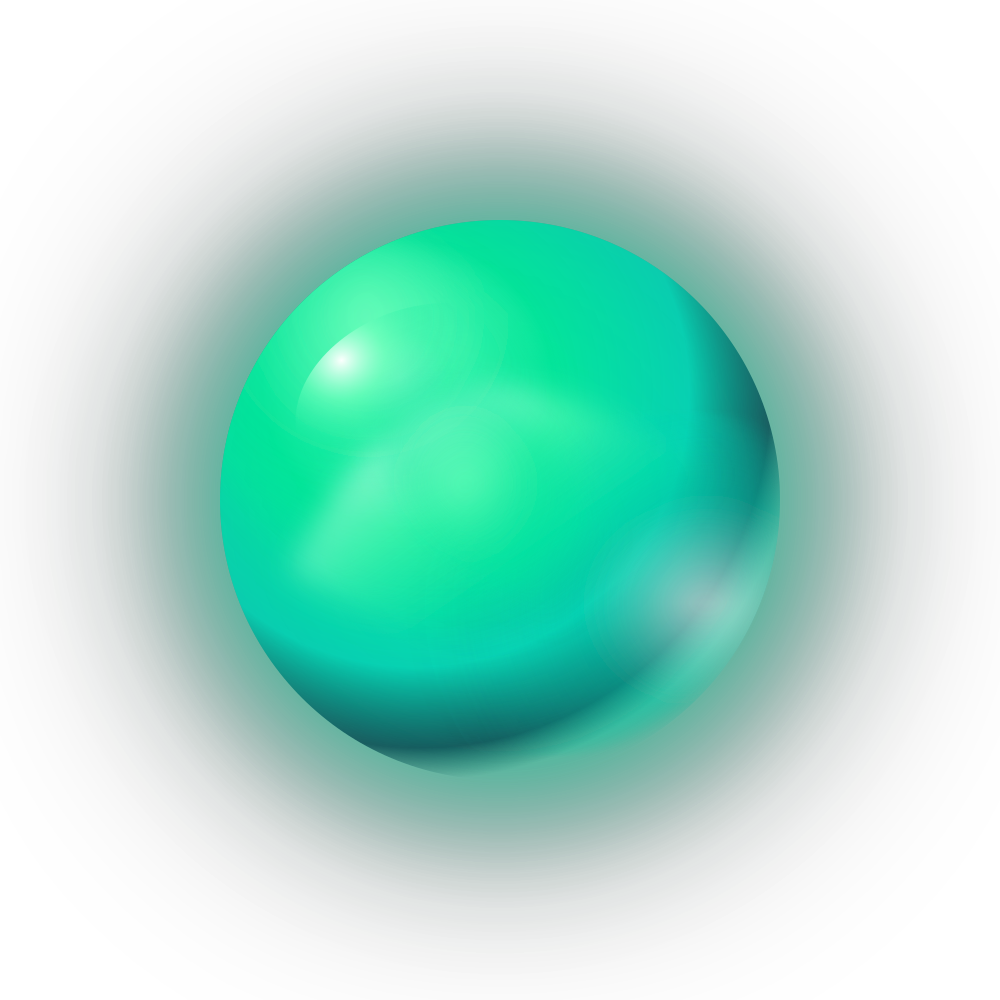
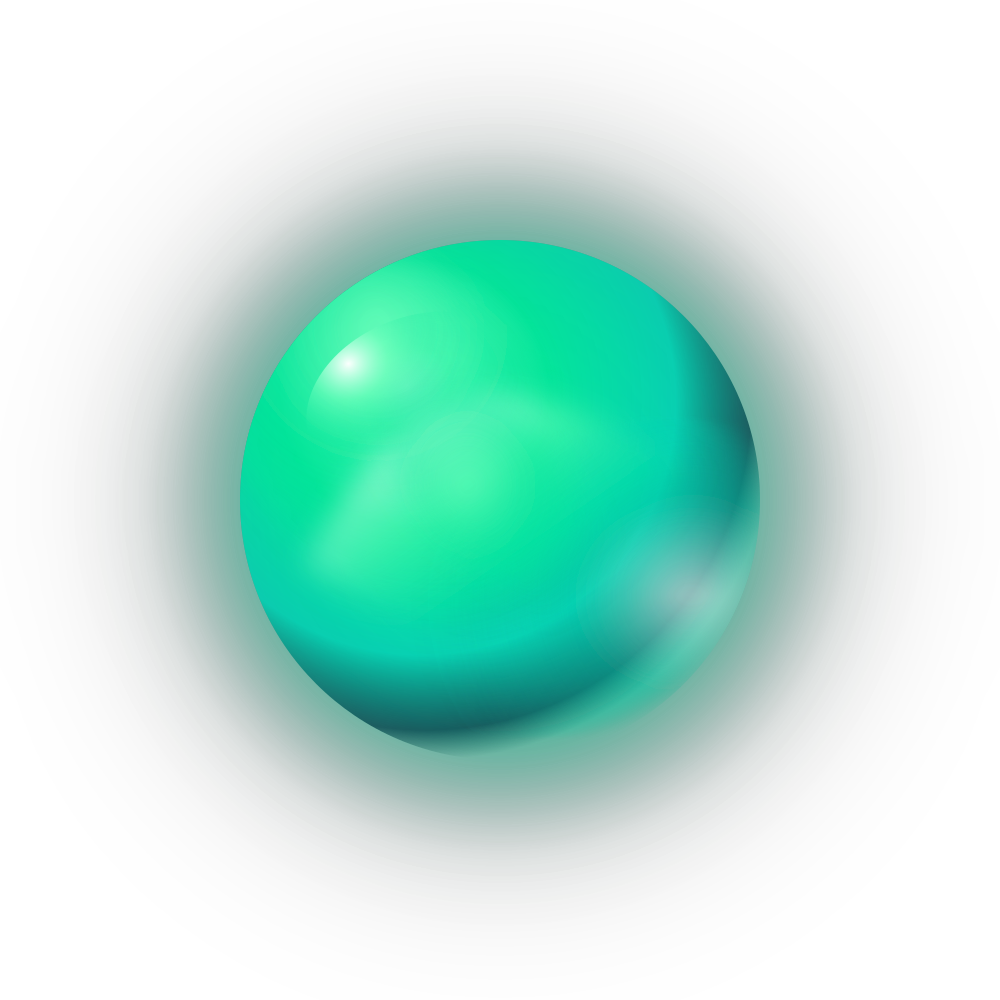
style: resize orb assets for better framing
Reduced the radius of orb core and aura elements in SVG files to ensure 
consistent framing across all generated visuals, accompanied by updated 
PNG exports.

Changed region(s): [[0.093, 0.093, 0.899, 0.899], [0.31, 0.465, 0.372, 0.527]]

diff --git a/video/orb.py b/video/orb.py
@@ -199,10 +199,10 @@ def generate_gradient_orb_svg(
     palette = ORB_PALETTES.get(palette_key.lower().strip(), ORB_PALETTES["cosmic"])
 
     c = canvas_size // 2
-    r_sphere = int(canvas_size * 0.28)
-    r_corona = int(canvas_size * 0.38)
-    r_aura = int(canvas_size * 0.48)
-    r_specular = int(r_sphere * 0.46)
+    r_sphere = int(canvas_size * 0.26)
+    r_corona = int(canvas_size * 0.35)
+    r_aura = int(canvas_size * 0.42)
+    r_specular = int(r_sphere * 0.45)
 
     # Coords for internal plasma arcs & vortex centers
     p_x1 = int(c - r_sphere * 0.45)
@@ -459,27 +459,23 @@ class GradientOrbManager:
 
             env_expr = "+".join(conds) if conds else "0"
 
-            # Scale: Base + Idle breathing in silence (+- 4%) + Speech expansion (up to +45% on vocal peaks)
+            # Scale: Base + Idle breathing in silence (+- 4%) + Speech expansion (up to +35% on vocal peaks)
             scale_expr = (
                 f"eval=frame:"
-                f"w='trunc({target_size}*(1.0 + 0.04*sin(2*PI*t/2.5) + 0.45*({env_expr}))/2)*2':"
+                f"w='trunc({target_size}*(1.0 + 0.04*sin(2*PI*t/2.5) + 0.35*({env_expr}))/2)*2':"
                 f"h='-2'"
             )
 
             # Color & Hue Shift:
             # In silence: slow organic hue drift (+- 15 deg)
-            # When speaking: shifts color temperature dynamically up to 135 degrees and saturates with vocal intensity
+            # When speaking: shifts color temperature dynamically and saturates with vocal intensity
             hue_expr = (
-                f"h='135*({env_expr}) + 18*sin(2*PI*t/2.0)':"
-                f"s='1.0 + 0.45*({env_expr})'"
+                f"h='85*({env_expr}) + 18*sin(2*PI*t/2.0)':"
+                f"s='1.0 + 0.35*({env_expr})'"
             )
-
-            # Fluid Plasma Motion: Continuous swirl with speech acceleration
-            rotate_expr = f"a='2*PI*t/8.0 + 0.8*({env_expr})':ow='rotw(iw)':oh='roth(ih)':c=none"
 
             filters.append(f"[{input_idx}:v]scale={scale_expr}")
             filters.append(f"hue={hue_expr}")
-            filters.append(f"rotate={rotate_expr}")
             filters.append("format=yuva420p")
             filters.append(f"colorchannelmixer=aa={effective_opacity:.2f}[{output_label}]")
         elif is_audio_reactive and not env_points:
@@ -488,48 +484,40 @@ class GradientOrbManager:
             simulated_speech = "(max(0,sin(2*PI*t/1.2)) * max(0,sin(2*PI*t/0.45)))"
             scale_expr = (
                 f"eval=frame:"
-                f"w='trunc({target_size}*(1.0 + 0.05*sin(2*PI*t/2.2) + 0.35*{simulated_speech})/2)*2':"
+                f"w='trunc({target_size}*(1.0 + 0.05*sin(2*PI*t/2.2) + 0.30*{simulated_speech})/2)*2':"
                 f"h='-2'"
             )
-            hue_expr = f"h='110*{simulated_speech} + 25*sin(2*PI*t/1.8)':s='1.0 + 0.35*{simulated_speech}'"
-            rotate_expr = f"a='2*PI*t/7.5 + 0.6*{simulated_speech}':ow='rotw(iw)':oh='roth(ih)':c=none"
+            hue_expr = f"h='75*{simulated_speech} + 20*sin(2*PI*t/1.8)':s='1.0 + 0.25*{simulated_speech}'"
 
             filters.append(f"[{input_idx}:v]scale={scale_expr}")
             filters.append(f"hue={hue_expr}")
-            filters.append(f"rotate={rotate_expr}")
             filters.append("format=yuva420p")
             filters.append(f"colorchannelmixer=aa={effective_opacity:.2f}[{output_label}]")
         elif self.animation in ("pulse", "breathing", "all"):
-            # Rhythmic breathing with live subtle hue modulation: +/- 15% scale oscillation every 2.0s
+            # Rhythmic breathing with live subtle hue modulation: +/- 12% scale oscillation every 2.0s
             scale_expr = (
                 f"eval=frame:"
-                f"w='trunc({target_size}*(1.0 + 0.15*sin(2*PI*t/2.0))/2)*2':"
+                f"w='trunc({target_size}*(1.0 + 0.12*sin(2*PI*t/2.0))/2)*2':"
                 f"h='-2'"
             )
             # Subtle breathing color temperature shift
-            hue_expr = "h='28*sin(2*PI*t/2.0)':s='1.0 + 0.15*sin(2*PI*t/2.0)'"
-            rotate_expr = "a='2*PI*t/9.0':ow='rotw(iw)':oh='roth(ih)':c=none"
+            hue_expr = "h='24*sin(2*PI*t/2.0)':s='1.0 + 0.12*sin(2*PI*t/2.0)'"
 
             filters.append(f"[{input_idx}:v]scale={scale_expr}")
             filters.append(f"hue={hue_expr}")
-            filters.append(f"rotate={rotate_expr}")
             filters.append("format=yuva420p")
             filters.append(f"colorchannelmixer=aa={effective_opacity:.2f}[{output_label}]")
         elif self.animation in ("float", "hover"):
-            # Floating hover with subtle chromatic luminescence & continuous fluid vortex
-            hue_expr = "h='35*sin(2*PI*t/3.0)':s='1.0 + 0.12*sin(2*PI*t/2.5)'"
-            rotate_expr = "a='2*PI*t/8.5':ow='rotw(iw)':oh='roth(ih)':c=none"
+            # Floating hover with subtle chromatic luminescence
+            hue_expr = "h='30*sin(2*PI*t/3.0)':s='1.0 + 0.10*sin(2*PI*t/2.5)'"
 
             filters.append(f"[{input_idx}:v]scale={target_size}:-2")
             filters.append(f"hue={hue_expr}")
-            filters.append(f"rotate={rotate_expr}")
             filters.append("format=yuva420p")
             filters.append(f"colorchannelmixer=aa={effective_opacity:.2f}[{output_label}]")
         else:
             scale_expr = f"{target_size}:-2"
-            rotate_expr = "a='2*PI*t/10.0':ow='rotw(iw)':oh='roth(ih)':c=none"
             filters.append(f"[{input_idx}:v]scale={scale_expr}")
-            filters.append(f"rotate={rotate_expr}")
             filters.append("format=yuva420p")
             filters.append(f"colorchannelmixer=aa={effective_opacity:.2f}[{output_label}]")
 
